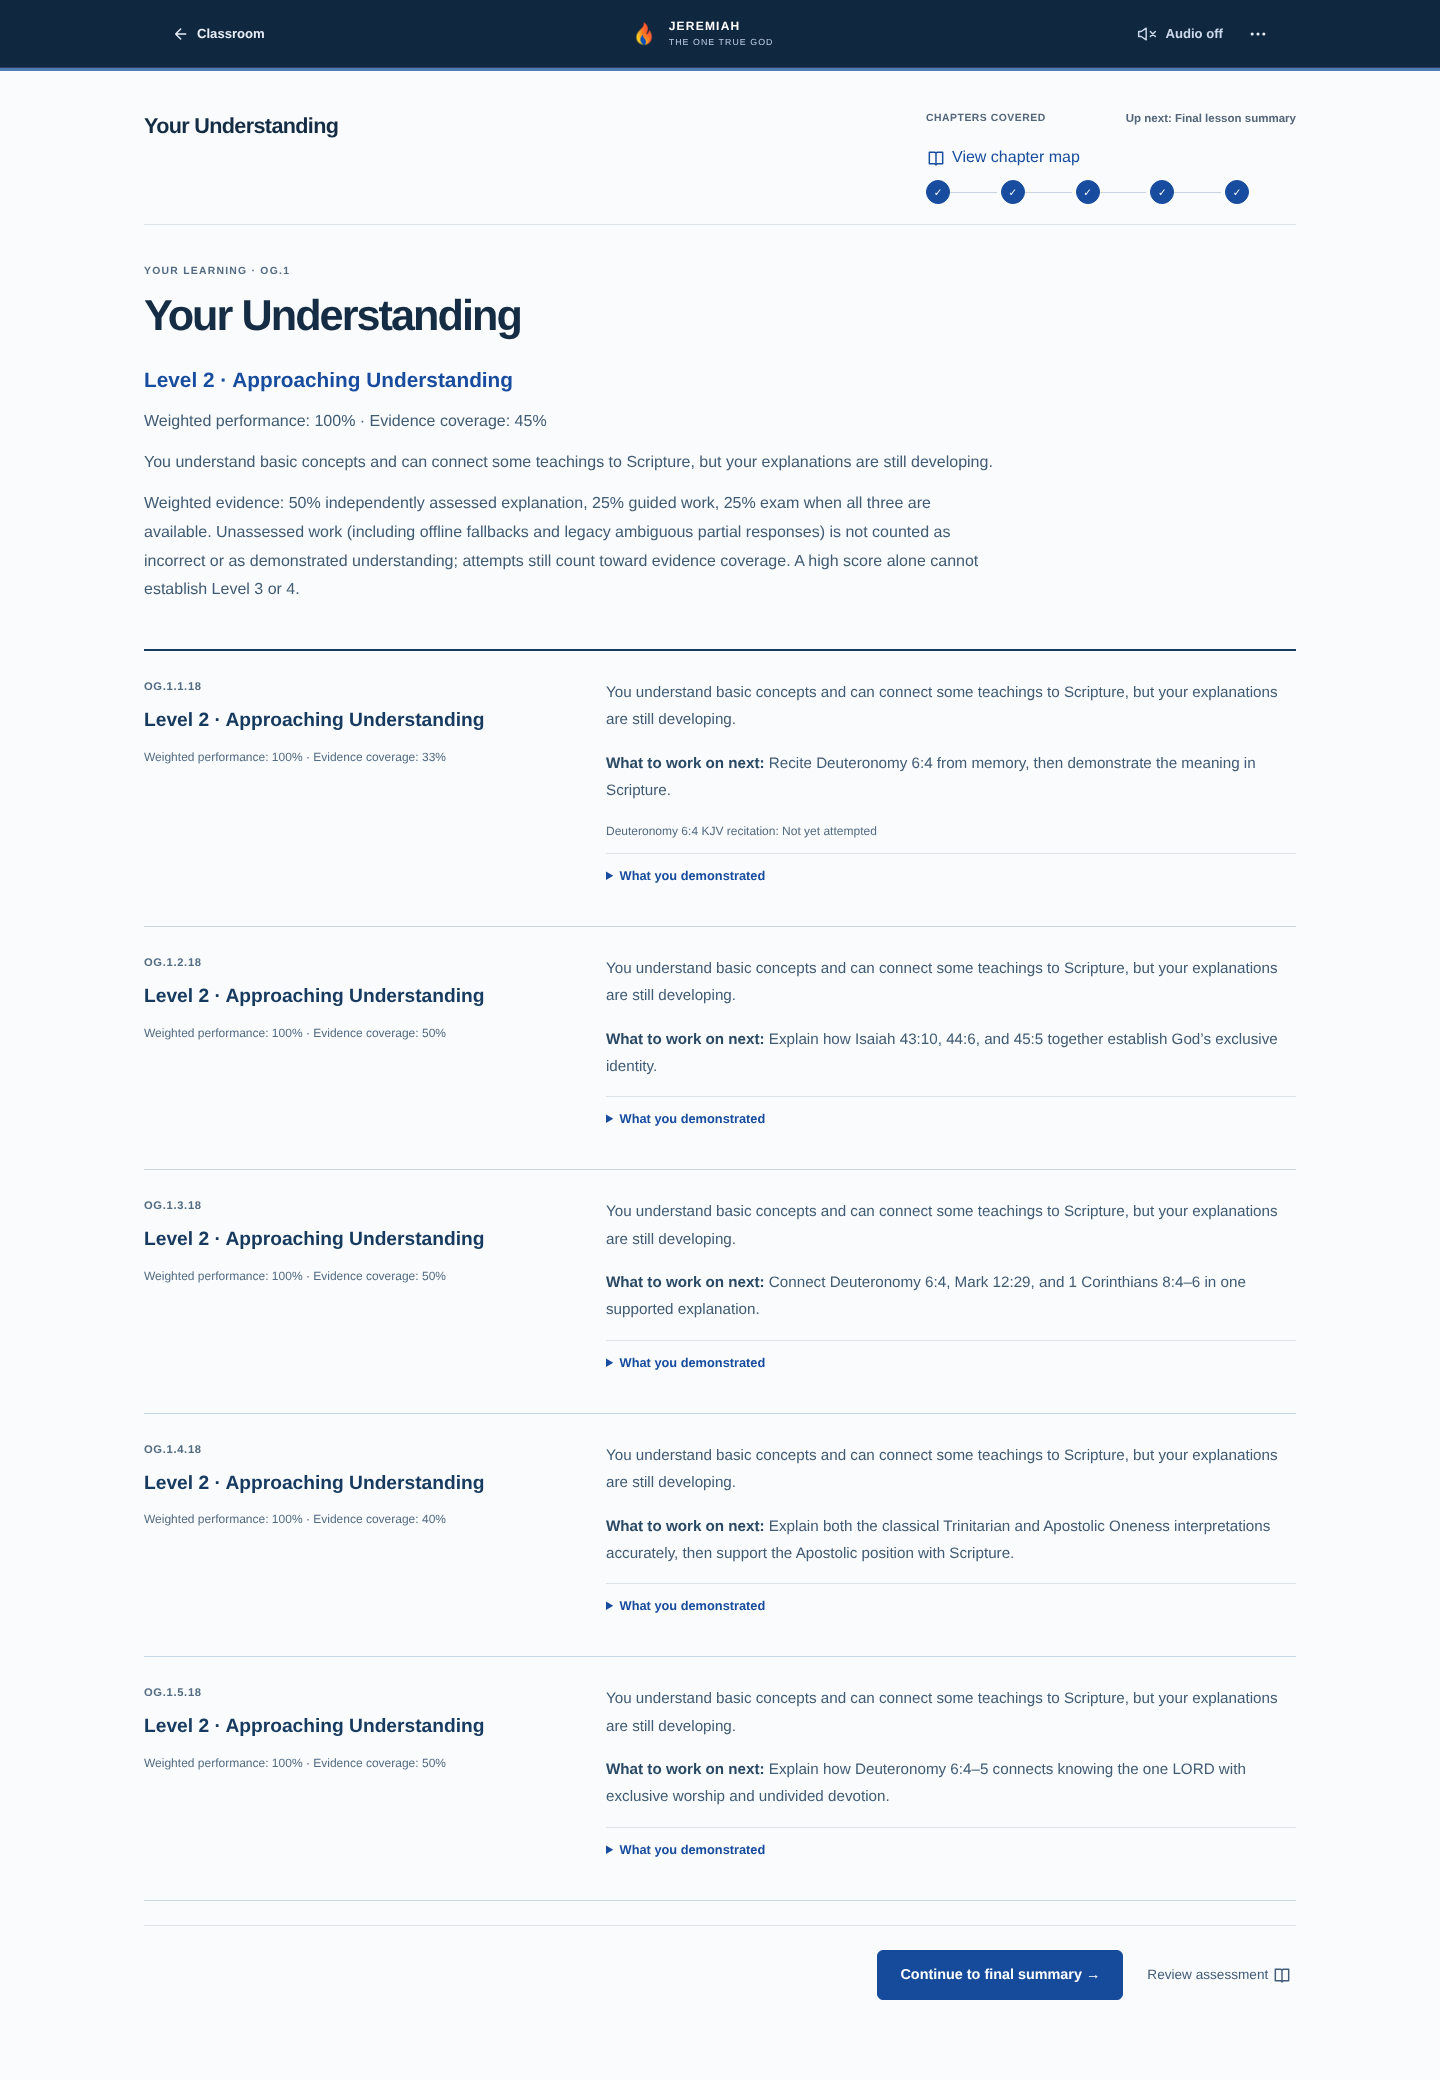
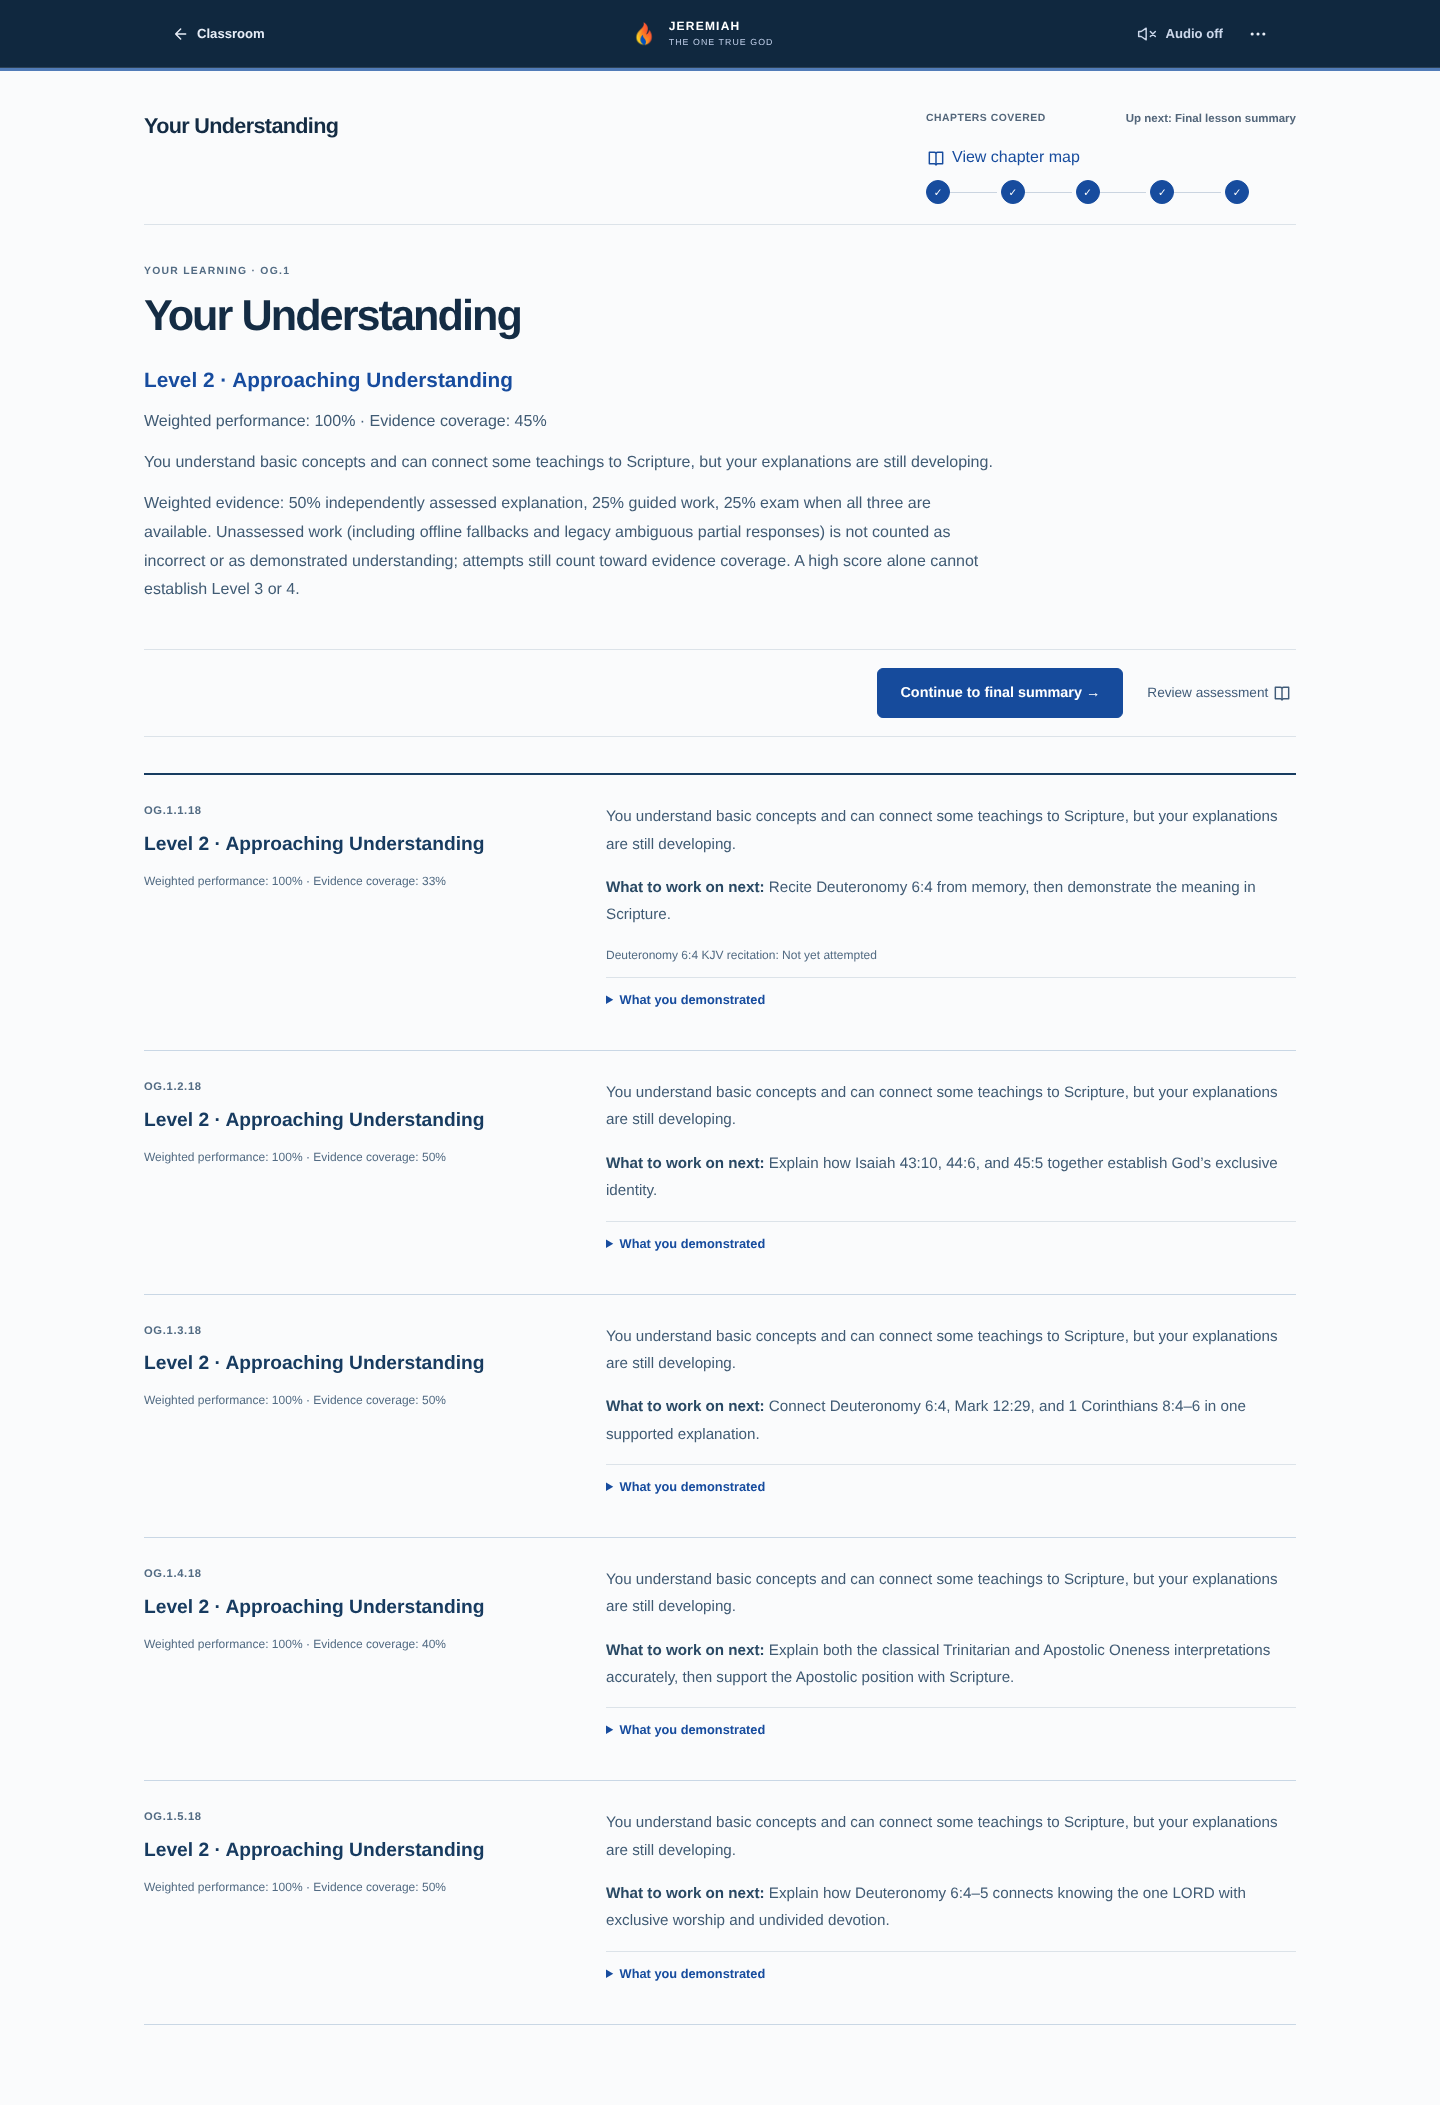
Keep final report continuation above optional detailed review

diff --git a/app/src/features/classroom/OG1LessonPlayer.jsx b/app/src/features/classroom/OG1LessonPlayer.jsx
@@ -288,8 +288,7 @@ export default function OG1LessonPlayer({content,state,onStateChange,onNavigate}
    <OG1ChapterGuide expanded={chapterMapOpen} onClose={()=>setChapterMapOpen(false)} chapterNumber={chapterNumber} finish={finish} taskTitle={finish?location.title:move.title} next={location.next}/>
    <div hidden={chapterMapOpen}>
    {finish?(completionScreen==='survey'?<OG1PilotSurvey completed onDone={()=>onNavigate(window.sessionStorage.getItem('jeremiah-pilot-active')==='1'?ROUTES.PILOT:ROUTES.CLASSROOM_STUDY)}/>:completionScreen==='understanding'?<section className="ogp-finish ogp-finish--understanding" aria-labelledby="ogp-understanding-title">
- <OG1UnderstandingReport rating={finalRating}/>
- <div className="ogp-finish-actions"><button type="button" className="ogp-action" onClick={()=>{setCompletionScreen('summary');window.scrollTo({top:0,behavior:'auto'})}}>Continue to final summary →</button><button type="button" className="ogp-back" onClick={()=>setCompletionScreen('exam')}>Review assessment <LessonIcon name="context"/></button></div>
+ <OG1UnderstandingReport rating={finalRating} actions={<div className="ogp-finish-actions"><button type="button" className="ogp-action" onClick={()=>{setCompletionScreen('summary');window.scrollTo({top:0,behavior:'auto'})}}>Continue to final summary →</button><button type="button" className="ogp-back" onClick={()=>setCompletionScreen('exam')}>Review assessment <LessonIcon name="context"/></button></div>}/>
  </section>:completionScreen==='summary'?<section className="ogp-finish ogp-finish--synthesis" aria-label="Final lesson summary"><OG1FinalSynthesis onOpenBible={readVerse}/><div className="ogp-finish-survey-invite"><span>ONE MORE THING · YOUR VOICE MATTERS</span><h2>Help shape the next Jeremiah lesson.</h2><p>Rate the teaching, imagery, interface, narrator, pacing, and more. Tell us exactly what to keep—and what needs to change. The survey is optional, anonymous, and separate from your answers.</p><div className="ogp-finish-actions"><button type="button" className="ogp-action" onClick={()=>{setCompletionScreen('survey');window.scrollTo({top:0,behavior:'auto'})}}>Evaluate the experience →</button><button type="button" className="ogp-back" onClick={()=>onNavigate(window.sessionStorage.getItem('jeremiah-pilot-active')==='1'?ROUTES.PILOT:ROUTES.CLASSROOM_STUDY)}>Finish without survey</button><button type="button" className="ogp-back" onClick={()=>{setCompletionScreen('understanding');window.scrollTo({top:0,behavior:'auto'})}}>← Understanding report</button></div></div></section>:<OG1ExitExam state={state} onStateChange={onStateChange} onReadBible={readVerse} onContinue={()=>{setCompletionScreen('understanding');window.scrollTo({top:0,behavior:'auto'})}}/>):<>
     <section key={move.id+':'+moment} ref={stageRef} tabIndex={-1} className={`ogp-stage ogp-stage--${sceneClass}`} aria-label={current.verb+' learning moment'} data-workspace={writingWorkspace||undefined}>
      {!writingWorkspace&&(move.id!=='learn'||current.kind!=='read')&&!['identity','return','mission','roadmap','doctrine-summary'].includes(current.kind)&&!current.kind?.startsWith('shema-')&&<><span className="ogp-verb"><span className="ogp-verb-dash"/> {current.verb}</span><h1>{current.title}</h1></>}

diff --git a/app/src/features/classroom/OG1UnderstandingReport.jsx b/app/src/features/classroom/OG1UnderstandingReport.jsx
@@ -1,7 +1,7 @@
 import './OG1UnderstandingReport.css';
 
 // Presentation only: the rating and evidence are supplied by the unchanged engine.
-export default function OG1UnderstandingReport({rating}) {
+export default function OG1UnderstandingReport({rating,actions}) {
  return <div className="ogp-depth-report">
   <header className="ogp-report-overview">
    <span className="ogp-understanding-eyebrow">YOUR LEARNING · OG.1</span>
@@ -10,6 +10,7 @@ export default function OG1UnderstandingReport({rating}) {
    <p>Weighted performance: {rating.score===null?'Not assessed':rating.score+'%'} · Evidence coverage: {rating.coverage}%</p>
    <p>{rating.meaning}</p><p>{rating.note}</p>
   </header>
+  {actions}
   <ol className="ogp-depth-report-list">
    {rating.standards.map(item=><li className="ogp-standard-report" key={item.standardId}>
     <div className="ogp-standard-result"><strong>{item.standardId}</strong><span>Level {item.level} · {item.label}</span><small>Weighted performance: {item.score===null?'Not assessed':item.score+'%'} · Evidence coverage: {item.coverage}%</small></div>

diff --git a/app/src/features/classroom/OG1UnderstandingReport.css b/app/src/features/classroom/OG1UnderstandingReport.css
@@ -5,6 +5,7 @@
 .ogp-understanding-eyebrow{font:700 .65rem/1.5 var(--font-body);letter-spacing:.12em;color:#526b83}
 .ogp-report-overview>p{font:400 1rem/1.8 var(--font-body);color:#405b74;margin:12px 0}
 .ogp-report-overview .ogp-understanding-level{font:700 1.3rem/1.5 var(--font-body);color:#174c9e}
+.ogp-depth-report>.ogp-finish-actions{margin:0 0 36px;padding:18px 0;border-block:1px solid #dce3e9}
 .ogp-depth-report-list{list-style:none;padding:0;margin:0;border-top:2px solid #173c60}
 .ogp-standard-report{display:grid;grid-template-columns:minmax(200px,.75fr) minmax(0,1.25fr);gap:48px;padding:28px 0;border-bottom:1px solid #c9d7e5}
 .ogp-standard-result{display:flex;flex-direction:column;align-items:start;gap:12px}

diff --git a/docs/OG1_CLASSROOM_REDESIGN_REVIEW.md b/docs/OG1_CLASSROOM_REDESIGN_REVIEW.md
@@ -20,7 +20,7 @@ The work is inside the OG.1 learning experience. Home, classroom entry/catalogue
 | Devotion | The confession/response passages sit in a connected reading spread. Consequences remain image-led. | Side-by-side Scripture on desktop, sequential passages on phone. No private reflection is newly graded. |
 | Chapter map | A dedicated focus view; the active task stays mounted but hidden while exploring. | Desktop has a five-part horizontal route; phone has a compact chapter index. Closing restores task and trigger focus; saved state is unchanged. |
 | Exam/review | Assessment studio with a quiet brief and one question surface. Choices are ruled rows, not individual cards. Results and answer explanations remain available. | Desktop brief sits beside questions; phone uses a compact introduction and five-column question navigation. |
-| Understanding | A semantic five-standard evidence ledger. Result, meaning and next step remain visible. Optional evidence detail has a native disclosure. | Desktop aligns result/explanation columns; phone uses a readable sequential report without a stack of framed panels. Disclosure never changes scores/history. |
+| Understanding | A semantic five-standard evidence ledger. Result, meaning and next step remain visible. Optional evidence detail has a native disclosure. Continuation follows the overall explanation, before the detailed ledger, so review does not force a long scroll. | Desktop aligns result/explanation columns; phone uses a readable sequential report without a stack of framed panels. Disclosure never changes scores/history. |
 | Final synthesis | A concluding lead, linked witness quotations and the command that follows. | Desktop links four witnesses across a single strip; phone makes a compact vertical testimony trail. All words and Bible links remain. |
 
 System/UI type is used for teaching, headings and controls; serif is reserved for quoted Scripture and Hebrew. Approved media remains unchanged; no font assets were introduced. The page has no universal card template.
